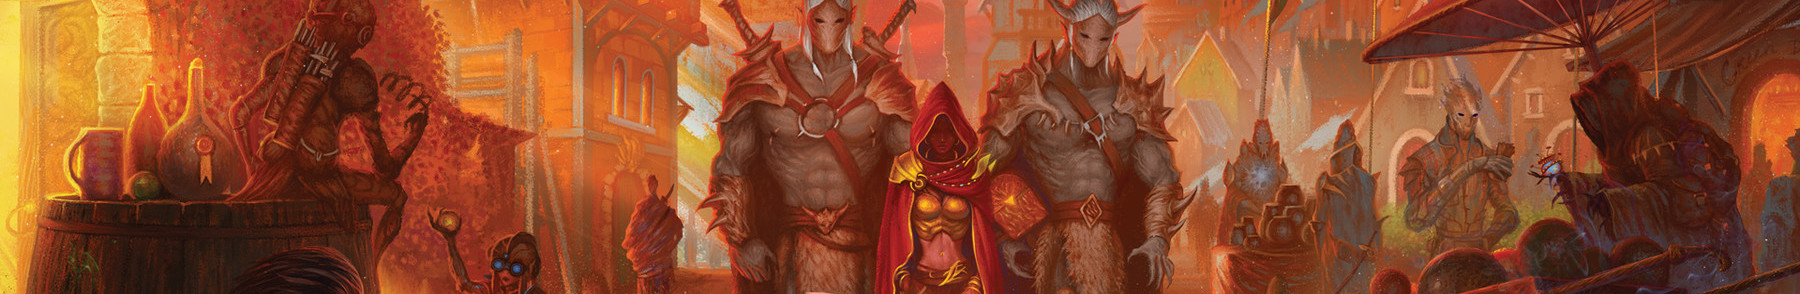
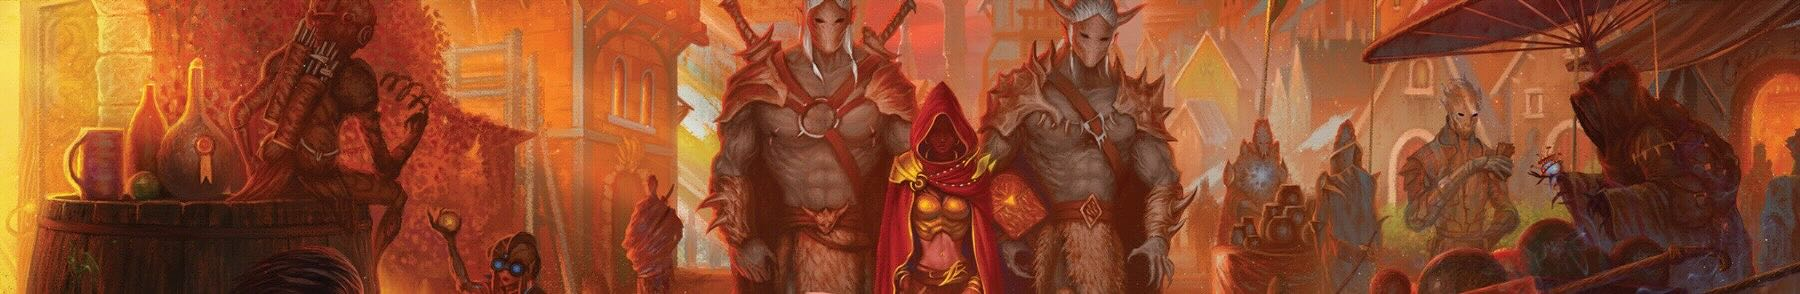
Reduce some images sizes

diff --git a/_posts/2024-04-08-ruby's-take-vs-first.md b/_posts/2024-04-08-ruby's-take-vs-first.md
@@ -43,7 +43,7 @@ SELECT  "users".* FROM "users" WHERE "users"."last_name" = 'Dobrick' LIMIT 1
 This means our datbase can stop once it finds a single record and return it to us, rather than spend extra time and cycles ordering a bunch of records we don't care about.
 
 I'm going to show the header image for this post once more to show how big of an impact a single change had on a production API call; you can see the exact deploy where this change was made reducing the average latency from ~200ms to ~0.02ms.
-![Latency Graph]({{ site.baseurl }}/assets/images/{{ page.id }}/new-relic.png){: .img-responsive}
+![Latency Graph]({{ site.baseurl }}/assets/images/{{ page.id }}/new-relic.jpg){: .img-responsive}
 
 ## Other Options
 As the answer on StackOverflow mentioned, you can use something like `find_by` to achieve the same result
